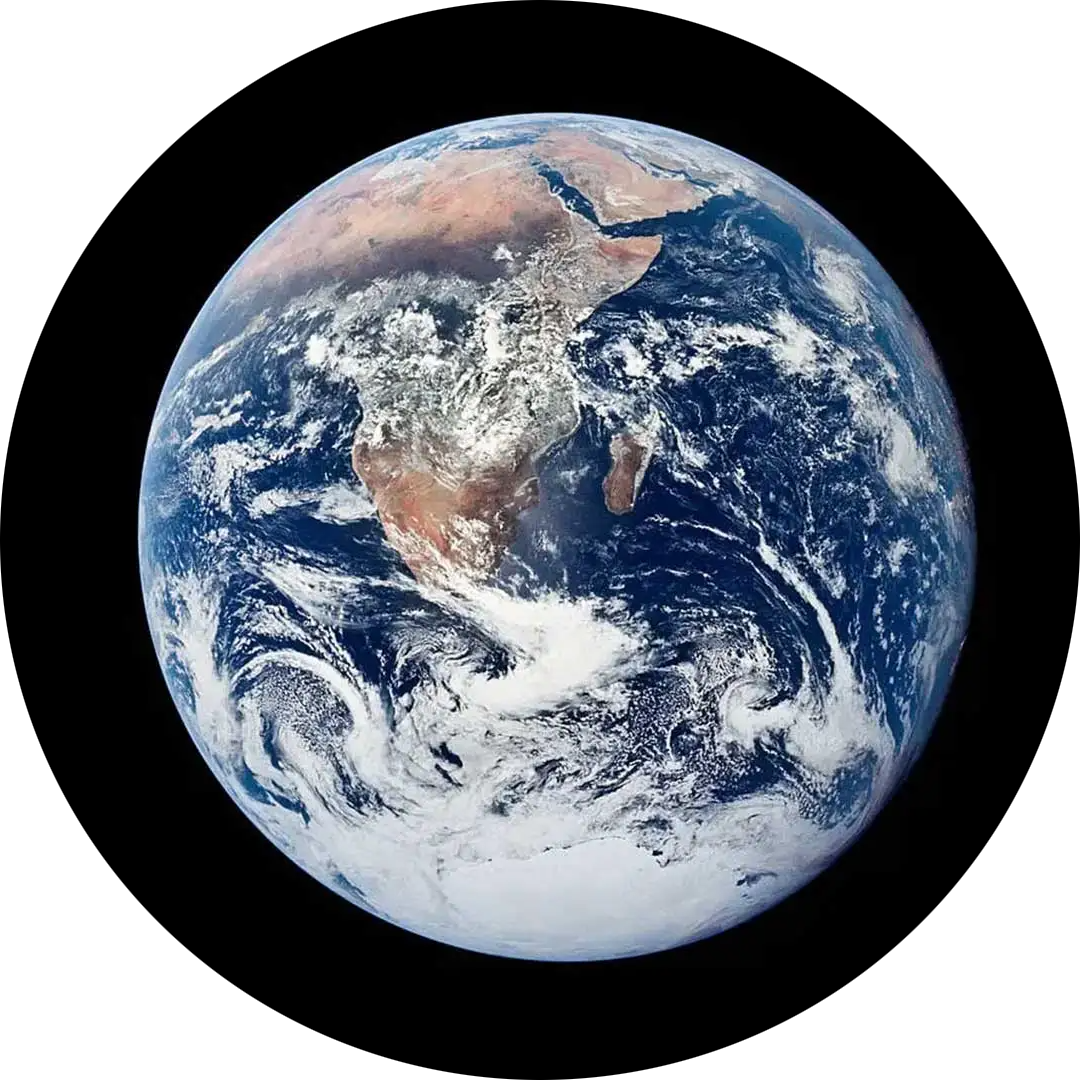
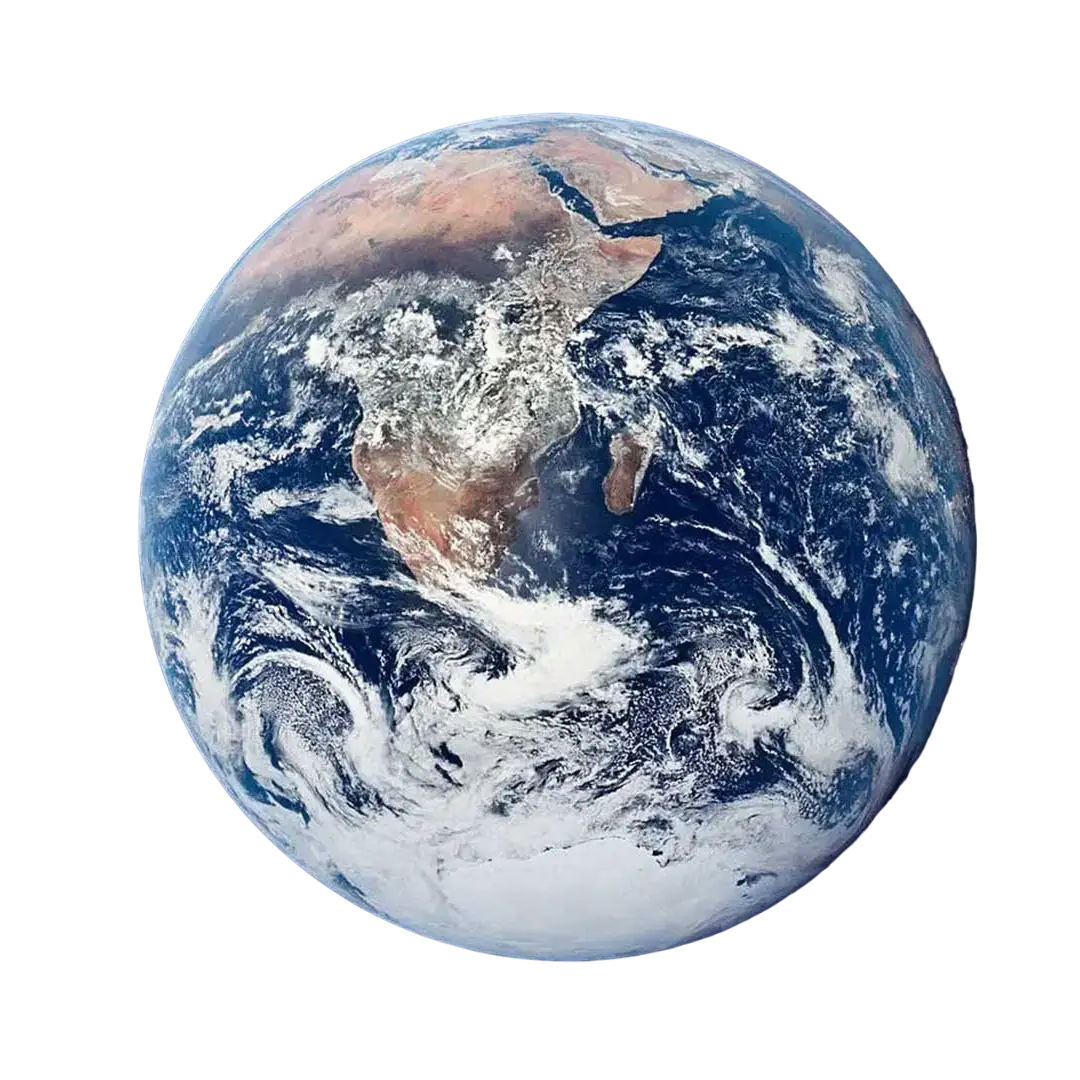
.

diff --git a/index.html b/index.html
@@ -11,7 +11,7 @@
     <link rel="icon" href="gallery/icon/galaxy-logo.ico" type="image/x-icon">
     <link rel="shortcut icon" href="gallery/icon/galaxy-logo.ico" type="image/x-icon">
 </head>
-<body>
+<body class="">
   <!-- NAVBAR  -->
   <div id="navbar"></div>
 
@@ -165,45 +165,54 @@
     </div>
   </div>
   -->
-<div class="container">
-  <div class="row row-cols-col-md-3 ve col-sm-12" >
-    <div class="col">
-      <div class="card">
-        <img src="gallery/planets/earth.webp" class="card-img-top" alt="Earth">
-        <div class="card-body">
-          <h5 class="card-title">Earth Facts</h5>
-          <p class="card-text">Earth – our home planet – is the third planet from the Sun, and the fifth largest planet.</p>
-          <button type="button" onclick="window.location.href='https://science.nasa.gov/earth/facts/'" class="btn btn-outline-dark">Read more</button>
+<div class="m-5 p-5 ">
+  <div class="row d-flex justify-content-center" >
+    <div class="col-lg-3 col-md-4 col-6 card-min-width">
+      <div class="card background-color-black overflow-hidden shadow-lg border-0 m-1">
+        <div class="background-color-black">
+        <img src="gallery/planets/earth.webp" class="card-img-top p-3 card-img-scale bg-transparent" alt="Earth">
+      </div>
+        <div class="card-body background-color-black">
+          <h5 class="card-title text-light">Earth Facts</h5>
+          <p class="card-text card-description text-light">Earth – our home planet – is the third planet from the Sun, and the fifth largest planet.</p>
+          <button type="button" onclick="window.location.href='https://science.nasa.gov/earth/facts/'" class="btn btn-outline-light">Read more</button>
         </div>
       </div>
     </div>
-    <div class="col">
-      <div class="card">
-        <img src="gallery/stars/sun.jpeg" class="card-img-top" alt="Sun">
-        <div class="card-body">
-          <h5 class="card-title">Our Sun: Facts</h5>
-          <p class="card-text">The Sun is the star at the heart of our solar system. Its gravity holds the solar system together, keeping everything – from the biggest planets to the smallest bits of debris – in its orbit.</p>
-          <button type="button" onclick="window.location.href='https://science.nasa.gov/sun/'" class="btn btn-outline-dark">Read more</button>
+    <div class="col-lg-3 col-md-4 col-6 card-min-width">
+      <div class="card background-color-black overflow-hidden shadow-lg border-0 m-1">
+        <div class="background-color-black background-color-black"></div>
+        <div class="background-color-black">
+        <img src="gallery/stars/sun.jpeg " class="card-img-top p-3 card-img-scale bg-transparent" alt="Sun">
+      </div>
+        <div class="card-body background-color-black">
+          <h5 class="card-title text-light">Our Sun: Facts</h5>
+          <p class="card-text card-description text-light">The Sun is the star at the heart of our solar system. Its gravity holds the solar system together, keeping everything – from the biggest planets to the smallest bits of debris – in its orbit.</p>
+          <button type="button" onclick="window.location.href='https://science.nasa.gov/sun/'" class="btn btn-outline-light">Read more</button>
         </div>
       </div>
     </div>
-    <div class="col">
-      <div class="card">
-        <img src="gallery/asteroids/psyche.webp" class="card-img-top" alt="Asteroid Psyche">
-        <div class="card-body">
-          <h5 class="card-title">Asteroid Psyche</h5>
-          <p class="card-text">One of the most intriguing objects in the main asteroid belt, Psyche is a giant metal rich asteroid, about three times farther away from the Sun than is Earth.</p>
-          <button type="button" onclick="window.location.href='https://science.nasa.gov/solar-system/asteroids/16-psyche/'" class="btn btn-outline-dark">Read more</button>
+    <div class="col-lg-3 col-md-4 col-6 card-min-width">
+      <div class="card background-color-black overflow-hidden shadow-lg border-0 m-1">
+        <div class="background-color-black">
+        <img src="gallery/asteroids/psyche.webp" class="card-img-top p-3 card-img-scale bg-transparent" alt="Asteroid Psyche">
+      </div>
+        <div class="card-body background-color-black">
+          <h5 class="card-title text-light">Asteroid Psyche</h5>
+          <p class="card-text card-description text-light">One of the most intriguing objects in the main asteroid belt, Psyche is a giant metal rich asteroid, about three times farther away from the Sun than is Earth.</p>
+          <button type="button" onclick="window.location.href='https://science.nasa.gov/solar-system/asteroids/16-psyche/'" class="btn btn-outline-light">Read more</button>
         </div>
       </div>
     </div>
-    <div class="col">
-      <div class="card">
-        <img src="gallery/astronauts/alper-gezeravci.jpeg" class="card-img-top" alt="Alper Gezeravcı">
-        <div class="card-body">
-          <h5 class="card-title">Alper Gezeravcı</h5>
-          <p class="card-text">Born December 1979 in Silifke, Türkiye, Gezeravcı attended the Air Force Academy in Istanbul, Türkiye, where he completed a Bachelor of Science in Electronics Engineering. </p>
-          <button type="button" onclick="window.location.href='https://www.axiomspace.com/astronaut/alper-gezeravci'" class="btn btn-outline-dark">Read more</button>
+    <div class="col-lg-3 col-md-2 col-6 card-min-width">
+      <div class="card background-color-black overflow-hidden shadow-lg border-0 m-1">
+        <div class="background-color-black">
+        <img src="gallery/astronauts/alper-gezeravci.jpeg" class="card-img-top p-3 card-img-scale bg-transparent" alt="Alper Gezeravcı">
+      </div>
+        <div class="card-body background-color-black">
+          <h5 class="card-title text-light">Alper Gezeravcı</h5>
+          <p class="card-text card-description text-light">Born December 1979 in Silifke, Türkiye, Gezeravcı attended the Air Force Academy in Istanbul, Türkiye, where he completed a Bachelor of Science in Electronics Engineering. </p>
+          <button type="button" onclick="window.location.href='https://www.axiomspace.com/astronaut/alper-gezeravci'" class="btn btn-outline-light">Read more</button>
         </div>
       </div>
     </div>

diff --git a/planets.html b/planets.html
@@ -11,22 +11,22 @@
     <link rel="shortcut icon" href="gallery/icon/galaxy-logo.ico" type="image/x-icon">
     <title>Space Time</title>
 </head>
-<body>
+<body class="h-100">
     <div id="navbar"></div>
 
 <!-- Card -->
-<div class="row row-cols-1 row-cols-md-3 g-4">
-    <div class="col">
+<div class="row g-4  container p-5 m-5">
+    <div class="col-lg-3 col-md-2 col-6 card-min-width">
       <div class="card h-100">
         <img src="gallery/planets/earth.webp" class="card-img-top img-fluid" alt="...">
         <div class="card-body">
           <h5 class="card-title">Earth Facth</h5>
-          <p class="card-text">Earth – our home planet – is the third planet from the Sun, and the fifth largest planet.</p>
+          <p class="card-text card-description">Earth – our home planet – is the third planet from the Sun, and the fifth largest planet.</p>
           <button type="button" onclick="window.location.href='https://science.nasa.gov/earth/facts/'" class="btn btn-outline-dark">Read more</button>
         </div>
       </div> 
     </div>
-    <div class="col">
+    <div class="col-lg-3 col-md-2 col-6 card-min-width">
       <div class="card h-100">
         <img src="gallery/planets/mercury.webp" class="card-img-top img-fluid" alt="...">
         <div class="card-body">
@@ -36,7 +36,7 @@
         </div>
       </div>
     </div>
-    <div class="col"> 
+    <div class="col-lg-3 col-md-2 col-6 card-min-width"> 
       <div class="card h-100">
         <img src="gallery/planets/neptune.webp" class="card-img-top img-fluid" alt="...">
         <div class="card-body">
@@ -46,7 +46,57 @@
         </div>
       </div>
     </div>
-  </div> 
+    <div class="col-lg-3 col-md-2 col-6 card-min-width"> 
+      <div class="card h-100">
+        <img src="gallery/planets/neptune.webp" class="card-img-top img-fluid" alt="...">
+        <div class="card-body">
+          <h5 class="card-title">Neptune Facts</h5>
+          <p class="card-text">Neptune is the eighth and most distant planet in our solar system.</p>
+          <button type="button" onclick="window.location.href='https://science.nasa.gov/neptune/facts/'" class="btn btn-outline-dark">Read more</button>
+        </div>
+      </div>
+    </div>
+    <div class="col-lg-3 col-md-2 col-6 card-min-width">
+      <div class="card h-100">
+        <img src="gallery/planets/earth.webp" class="card-img-top img-fluid" alt="...">
+        <div class="card-body">
+          <h5 class="card-title">Earth Facth</h5>
+          <p class="card-text">Earth – our home planet – is the third planet from the Sun, and the fifth largest planet.</p>
+          <button type="button" onclick="window.location.href='https://science.nasa.gov/earth/facts/'" class="btn btn-outline-dark">Read more</button>
+        </div>
+      </div> 
+    </div>
+    <div class="col-lg-3 col-md-2 col-6 card-min-width">
+      <div class="card h-100">
+        <img src="gallery/planets/mercury.webp" class="card-img-top img-fluid" alt="...">
+        <div class="card-body">
+          <h5 class="card-title">Mercury Facts</h5>
+          <p class="card-text"> Mercury is the smallest planet in our solar system, and the nearest to the Sun.</p>
+          <button type="button" onclick="window.location.href='https://science.nasa.gov/mercury/facts/'" class="btn btn-outline-dark">Read more</button>
+        </div>
+      </div>
+    </div>
+    <div class="col-lg-3 col-md-2 col-6 card-min-width"> 
+      <div class="card h-100">
+        <img src="gallery/planets/neptune.webp" class="card-img-top img-fluid" alt="...">
+        <div class="card-body">
+          <h5 class="card-title">Neptune Facts</h5>
+          <p class="card-text">Neptune is the eighth and most distant planet in our solar system.</p>
+          <button type="button" onclick="window.location.href='https://science.nasa.gov/neptune/facts/'" class="btn btn-outline-dark">Read more</button>
+        </div>
+      </div>
+    </div>
+    <div class="col-lg-3 col-md-2 col-6 card-min-width"> 
+      <div class="card h-100">
+        <img src="gallery/planets/neptune.webp" class="card-img-top img-fluid" alt="...">
+        <div class="card-body">
+          <h5 class="card-title">Neptune Facts</h5>
+          <p class="card-text">Neptune is the eighth and most distant planet in our solar system.</p>
+          <button type="button" onclick="window.location.href='https://science.nasa.gov/neptune/facts/'" class="btn btn-outline-dark">Read more</button>
+        </div>
+      </div>
+    </div>
+</div> 
 
 
 

diff --git a/navbar.html b/navbar.html
@@ -1,40 +1,39 @@
-<nav class="navbar navbar-expand-lg " style="background-color: #060405;">
+<nav class="navbar navbar-expand-lg" style="background-color: #060405;">
   <div class="container-fluid">
       <div class="d-flex justify-content-between align-items-center" style="width: 100%;">
           <div>
               <img src="gallery/icon/galaxy-logo.jpeg" alt="Logo" style="height: 60px; width: auto;">
               <a class="navbar-brand text-light" href="index.html">Space Time</a>
           </div>
+          <div>
       <div class="collapse navbar-collapse" id="navbarSupportedContent">
-          <ul class="navbar-nav me-auto mb-2">
+          <ul class="navbar-nav me-auto mb-2 ">
+            <li class="nav-item dropdown">
+                <a class="nav-link dropdown-toggle text-light" href="#" role="button" data-bs-toggle="dropdown" aria-expanded="false">
+                    Categories 
+                </a>
+                <ul class="dropdown-menu">
+                    <li><a class="dropdown-item" href="planets.html">Planets</a></li>
+                    <li><a class="dropdown-item" href="stars.html">Stars</a></li>
+                    <li><a class="dropdown-item" href="asteroids.html">Asteroids</a></li>
+                    <li><a class="dropdown-item" href="astronauts.html">Astronauts</a></li>
+                    <li><hr class="dropdown-divider"></li>
+                    <li><a class="dropdown-item" href="https://www.nasa.gov/international-space-station/">International Space Station (ISS)</a></li>
+                </ul>
+            </li>
               <li class="nav-item">
                   <a class="nav-link active text-light" aria-current="page" href="spacegallery.html">Space Gallery</a>
               </li>
               <li class="nav-item">
                   <a class="nav-link text-light" style="width: max-content;" href="https://www.nasa.gov/2024-news-releases/">2024 Space News</a>
               </li>
-              <li class="nav-item dropdown">
-                  <a class="nav-link dropdown-toggle text-light" href="#" role="button" data-bs-toggle="dropdown" aria-expanded="false">
-                      Categories 
-                  </a>
-                  <ul class="dropdown-menu">
-                      <li><a class="dropdown-item" href="planets.html">Planets</a></li>
-                      <li><a class="dropdown-item" href="stars.html">Stars</a></li>
-                      <li><a class="dropdown-item" href="asteroids.html">Asteroids</a></li>
-                      <li><a class="dropdown-item" href="astronauts.html">Astronauts</a></li>
-                      <li><hr class="dropdown-divider"></li>
-                      <li><a class="dropdown-item" href="https://www.nasa.gov/international-space-station/">International Space Station (ISS)</a></li>
-                  </ul>
-              </li>
+             
           </ul>
-          <form class="d-flex" role="search">
-              <input class="form-control me-2" type="search" placeholder="Search" aria-label="Search">
-              <button class="btn btn-outline-secondary" type="submit">Search</button>
-          </form>
         </div>
         <button class="navbar-toggler" type="button" data-bs-toggle="collapse" data-bs-target="#navbarSupportedContent" aria-controls="navbarSupportedContent" aria-expanded="false" aria-label="Toggle navigation">
           <span class="navbar-toggler-icon"></span>
       </button>
+    </div>
       </div>
   </div>
 </nav>

diff --git a/assets/css/style.css b/assets/css/style.css
@@ -367,7 +367,7 @@
          font-size: 32vw;
      } 
  }
- 
+/*  
  @media (max-width: 580px) {	
      .case-study-images li:nth-child(1) .img-hero-background span,
      .case-study-images li:nth-child(2) .img-hero-background span,
@@ -392,7 +392,7 @@
      .case-study-images li:nth-child(4) .img-hero-background span:nth-child(4){
          display: none;
      }
- }
+ } */
  .switch-wrap {
      position: fixed;
      bottom: 30px;
@@ -518,13 +518,13 @@
     color: gray;
 }
 
-/* Card */
+/* Card
 .custom-card {
     margin-top: 5px;
     margin-bottom: 5px;
     margin-left: 5px;
     margin-right: 5px;
-}
+} */
 
  
 /* Card, asteroids.html */
@@ -534,3 +534,61 @@
     margin-right: 20px;
 
 }
+.card-min-width{
+    min-width: 250px;
+}
+.card-description{
+    height: 150px;
+}
+.card-img-scale:hover{
+    scale: 1.2;
+    transition: 2s ease-in-out;
+}
+
+.background-color-black {
+    background-color: black;
+}
+
+body, html {
+    margin: 0;
+    padding: 0;
+    height: 100%;
+
+    background: #000;
+}
+
+#stars, #stars2, #stars3 {
+    position: absolute;
+    width: 100%;
+    height: 100%;
+    top: 0;
+    left: 0;
+    background: transparent;
+    pointer-events: none;
+    z-index: -1;
+}
+/*
+#stars {
+    animation: animStar 50s linear infinite;
+}
+
+#stars2 {
+    animation: animStar 100s linear infinite;
+}
+
+#stars3 {
+    animation: animStar 150s linear infinite;
+}
+
+@keyframes animStar {
+    from {transform: translateY(0);}
+    to {transform: translateY(-1000px);}
+}
+
+.content {
+    position: relative;
+    z-index: 1;
+    color: white;
+    padding: 20px;
+}
+*/

diff --git a/assets/js/script.js b/assets/js/script.js
@@ -84,3 +84,26 @@ $("#switch").on('click', function () {
 $(document).ready(function () {
   $("#footer").load("footer.html");
 });
+
+document.addEventListener("DOMContentLoaded", function () {
+  const stars1 = document.getElementById('stars');
+  const stars2 = document.getElementById('stars2');
+  const stars3 = document.getElementById('stars3');
+
+  function createStars(container, starCount) {
+      for (let i = 0; i < starCount; i++) {
+          const star = document.createElement('div');
+          star.classList.add('star');
+          star.style.left = `${Math.random() * 100}%`;
+          star.style.top = `${Math.random() * 100}%`;
+          star.style.width = `${Math.random() * 3}px`;
+          star.style.height = star.style.width;
+          star.style.backgroundColor = '#fff';
+          container.appendChild(star);
+      }
+  }
+
+  createStars(stars1, 300);
+  createStars(stars2, 300);
+  createStars(stars3, 300);
+});

diff --git a/footer.html b/footer.html
@@ -10,7 +10,7 @@
                     <li class="nav-item"><a href="astronauts.html" class="nav-link px-2">Astronauts</a></li>
                 </ul>
                 
-                <a href="index.html" class="col-md-4 d-flex flex-column align-items-center justify-content-center mb-3 mb-md-0 me-md-auto link-body-emphasis text-decoration-none">
+                <a href="index.html" class="col-md-4 d-flex flex-column align-items-center justify-content-center mb-3 mb-md-0 me-md-auto link-body-emphasis text-decoration-none max-content">
                     <img src="gallery/icon/galaxy-logo.ico" width="60" height="60" alt="Galaxy Logo" class="mb-2">
                     <span style="color: white;">Space Time</span>
                 </a>
